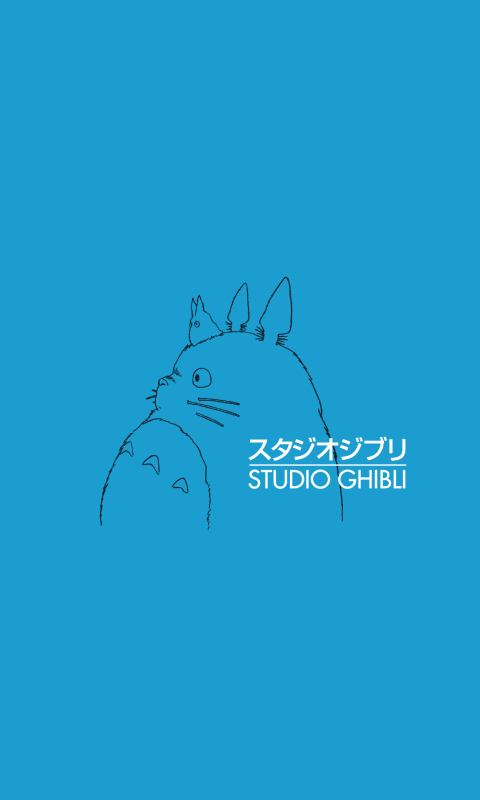
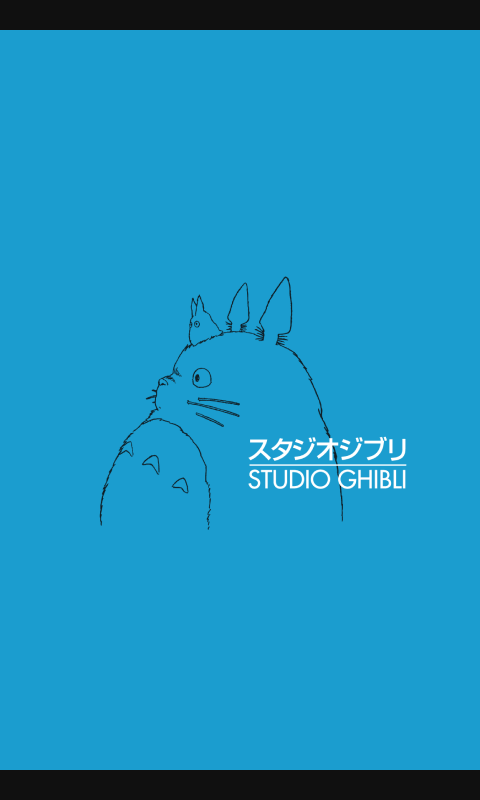
모바일배경 미디어쿼리

Changed region(s): [[0.0, 0.9375, 1.0, 1.0], [0.0, 0.0, 1.0, 0.0625]]

diff --git a/js/index.js b/js/index.js
@@ -1,56 +1,126 @@
-// ***페이드효과
 const header = document.querySelector("#header-wrap");
 const movieBg = document.querySelector("#movie-bg");
-const movie = document.querySelector("#movie");
+const intro = document.querySelector("#intro");
 const musicPlayer = document.querySelector("#music-player");
+const pcBg = document.querySelector('#pc-bg');
+const mobileBg = document.querySelector('#mobile-bg');
 
 header.style.opacity = 0;
 movieBg.style.opacity = 1;
 musicPlayer.style.opacity = 0;
+pcBg.style.opacity = 0;
+mobileBg.style.opacity = 0;
 
-// 첫번째 페이드인
+
+// *** 해상도별 인트로
+// 해상도 768 초과(pc버전 인트로)
+if (document.body.offsetWidth > 768) {
+  intro.children[1].style.opacity = 0;
+  intro.children[2].style.opacity = 0;
+}
+// 해상도 768이하 480 초과(tablet버전 인트로)
+if (document.body.offsetWidth <= 768 && document.body.offsetWidth > 480) {
+  intro.children[0].style.opacity = 0;
+  intro.children[2].style.opacity = 0;
+}
+// 해상도 480 이하(mobile버전 인트로)
+if (document.body.offsetWidth <= 480) {
+  intro.children[0].style.opacity = 0;
+  intro.children[1].style.opacity = 0;
+}
+
+
+// ***페이드효과
+// 첫번째 페이드인(문서 열리고 1초동안)
 const firstTime = setInterval(function(){
+  // 검은색배경(무비bg)의 투명도가 0 초과면?
   if (movieBg.style.opacity > 0) {
+    // 검은색배경 투명도 0, 트랜지션 1초
     movieBg.style.opacity = 0;
     movieBg.style.transition = 1 + "s";
-  } else {
+    // firstTime clearTimeout
     clearInterval(firstTime);
   }
 }, 1000);
 
-// 두번째 페이드아웃
+// 두번째 페이드아웃(문서 열리고 3초 후)
 const secondTime = setTimeout(function(){
+  // 검은색배경(무비bg)의 투명도가 0이라면?
   if (movieBg.style.opacity == 0) {
-    
-
+    // 검은색배경 투명도 1
     movieBg.style.opacity = 1;
-    movie.style.opacity = 0;
-    movie.style.transition = 1 + "s";
-  } else {
-    clearTimeout(secondTime);
+    // 토토로 인트로 투명도 0, 트랜지션 1s
+    intro.style.opacity = '0';
+    intro.style.transition = 1 + "s";
   }
 }, 3000);
 
-// 세번째 페이드인
+// 세번째 페이드인(문서 열리고 5초 후)
 const thirdTime = setTimeout(function() {
+  // 검은색배경(무비bg)의 투명도가 1이라면?
   if (movieBg.style.opacity == 1) {
-    const body = document.querySelector("body");
-
-    movie.style.display = "none";
+    // 토토로 인트로 이미지 없애기
+    intro.style.display = "none";
+    // 헤더 투명도 1
     header.style.opacity = 1;
+    // 검은색배경(무비bg) 투명도 0
     movieBg.style.opacity = 0;
     // 해상도 768 초과(desktop, laptop)
     if (document.body.offsetWidth > 768) {
-      body.style.background = "url(./img/bg/main_home.png) no-repeat 50% 50% / cover";
+      pcBg.style.opacity = 1;
     }
     // 해상도 768 이하(tablet, mobile)
     if (document.body.offsetWidth <= 768) {
-      body.style.background = "url(./img/bg/index_mobile0.jpg) no-repeat 50% 50% / cover";
-      body.classList.add('mobile');
+      mobileBg.style.opacity = 1;
     }
+    // 뮤직플레이어 투명도 1, 트랜지션 .6s
     musicPlayer.style.opacity = 1;
     musicPlayer.style.transition = .6 + "s";
-  } else {
-    clearTimeout(thirdTime);
   }
 }, 5000);
+
+
+
+
+// ***배경 자동전환(인트로 끝난 후)
+for (i=0; i<mobileBg.children.length; i++) {
+  mobileBg.children[i].style.position = 'absolute';
+}
+// 모바일배경 투명도 함수
+const mobileBgOpacity = function (opa1, opa2, opa3, opa4, opa5) {
+  mobileBg.children[0].style.opacity = opa1;
+  mobileBg.children[1].style.opacity = opa2;
+  mobileBg.children[2].style.opacity = opa3;
+  mobileBg.children[3].style.opacity = opa4;
+  mobileBg.children[4].style.opacity = opa5;
+}
+mobileBgOpacity(1,0,0,0,0);
+
+setTimeout(() =>{
+  // mobile버전 배경화면이 보이고 있다면?
+  if (mobileBg.style.opacity == 1) {
+    // 40초마다 무한반복
+    setInterval(() =>{
+      // 1번 이미지 6초동안 보여주기
+      setTimeout(() =>{
+        mobileBgOpacity(1,0,0,0,0);
+      }, 0);
+      // 2번 이미지 6초동안 보여주기
+      setTimeout(() =>{
+        mobileBgOpacity(0,1,0,0,0);
+      }, 8000);
+      // 3번 이미지 6초동안 보여주기
+      setTimeout(() =>{
+        mobileBgOpacity(0,0,1,0,0);
+      }, 16000);
+      // 4번 이미지 6초동안 보여주기
+      setTimeout(() =>{
+        mobileBgOpacity(0,0,0,1,0);
+      }, 24000);
+      // 5번 이미지 6초동안 보여주기
+      setTimeout(() =>{
+        mobileBgOpacity(0,0,0,0,1);
+      }, 32000);
+    }, 40000);
+  };
+},5016);

diff --git a/css/index.css b/css/index.css
@@ -1,33 +1,3 @@
-body {
-  background: url(../img/bg/intro.png) no-repeat 50% 50% / cover;
-}
-body.mobile {
-  animation: mobile-bg 50s 5s infinite;
-}
-@keyframes mobile-bg {
-  0% {
-    background: url(../img/bg/index_mobile0.jpg) no-repeat 50% 50% / cover;
-  }
-  20% {
-    background: url(../img/bg/index_mobile1.jpg) no-repeat 50% 50% / cover;
-  }
-  40% {
-    background: url(../img/bg/index_mobile2.jpg) no-repeat 50% 50% / cover;
-  }
-  60% {
-    background: url(../img/bg/index_mobile3.jpg) no-repeat 50% 50% / cover;
-  }
-  80% {
-    background: url(../img/bg/index_mobile4.jpg) no-repeat 50% 50% / cover;
-  }
-  100% {
-    background: url(../img/bg/index_mobile0.jpg) no-repeat 50% 50% / cover;
-  }
-}
-
-
-
-
 /* ***메인섹션*** */
 main {
   width:62.5rem;
@@ -39,11 +9,9 @@ main {
 
 
 /* ***영화 비주얼*** */
-/* 영화 스크린 같은 위, 아래 줄 */
-#movie > * {
-  background-color: #101010;
-  width:100%;
-  height:2.5rem;
+#intro {
+  left:0;
+  top:0;
 }
 /* 영화 배경 */
 #movie-bg {
@@ -55,60 +23,28 @@ main {
   pointer-events: none;
   z-index: 100;
 }
-/* 아랫줄 */
-.over {
-  left:0;
-  top:0;
-}
-/* 아랫줄 */
-.under {
-  left:0;
-  bottom:0;
-}
-/* 캐릭터 */
-#character {
-  width:100%;
-  height:100%;
-  left:0;
-  top:0;
-}
-#ponyo {
-  left: 35px;
-  top: 520px;
-  z-index: 1;
-}
-#cloud {
-  left:0;
-  top: -6px;
-}
-#porco {
-  left: 69px;
-  top: 127px;
-  z-index: -1;
-}
-#haul {
-  left: 379px;
-  top: 283px;
-  z-index: 1;
-}
-#mononoke {
-  left: 617px;
-  bottom: 60px;
-}
-#totoro {
-  left: 842px;
-  bottom: 60px;
-  z-index: -1;
-}
-#kiki {
-  left: 1285px;
-  top: 228px;
-}
-#laputa {
-  left: 802px;
-  top: 13px;
-}
 
+
+
+
+/* ***배경 */
+/* pc 버전 */
+#pc-bg {
+  left:0;
+  top:0;
+}
+/* mobile 버전 */
+#mobile-bg {
+  left:0;
+  top:0;
+}
+/* pc, mobile버전(tablet 포함) 이미지 */
+#pc-bg img, #mobile-bg img {
+  height:100vh;
+  left:0;
+  top:0;
+  transition: 1s;
+}
 
 
 

diff --git a/index.html b/index.html
@@ -89,12 +89,29 @@
 
   <!-- ***영화 비주얼 -->
   <!-- 영화스크린같은 줄 -->
-  <div id="movie">
-    <div class="over absolute"></div>
-    <div class="under absolute"></div>
+  <div id="intro" class="absolute">
+    <img src="./img/bg/intro_pc.png" alt="pc버전 인트로">
+    <img src="./img/bg/intro_tablet.png" alt="tablet버전 인트로">
+    <img src="./img/bg/intro_mobile.png" alt="mobile버전 인트로">
   </div>
   <div id="movie-bg" class="absolute"></div>
 
+
+
+
+  <!-- ***배경 -->
+  <!-- pc버전 -->
+  <div id="pc-bg" class="absolute">
+    <img src="./img/bg/main_home.png" alt="pc 버전 배경1">
+  </div>
+  <!-- 모바일버전 -->
+  <div id="mobile-bg" class="absolute">
+    <img src="./img/bg/index_mobile0.jpg" alt="mobile 버전 배경1">
+    <img src="./img/bg/index_mobile1.jpg" alt="mobile 버전 배경2">
+    <img src="./img/bg/index_mobile2.jpg" alt="mobile 버전 배경3">
+    <img src="./img/bg/index_mobile3.jpg" alt="mobile 버전 배경4">
+    <img src="./img/bg/index_mobile4.jpg" alt="mobile 버전 배경5">
+  </div>
 
 
 
